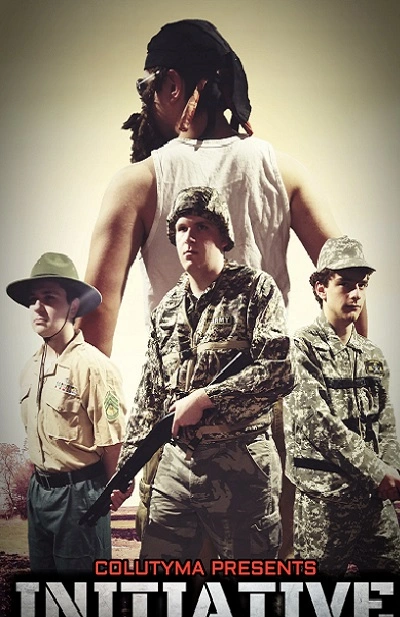
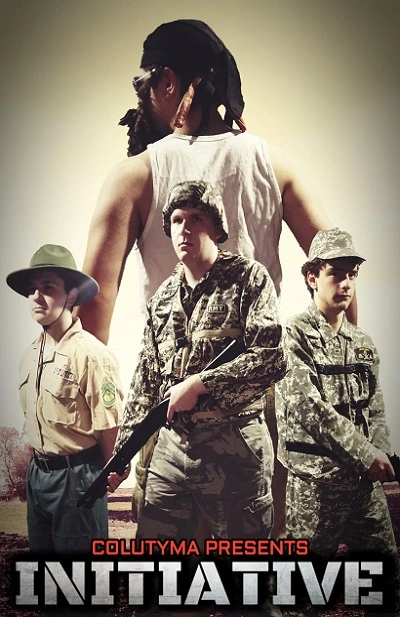
added small images to the movie posters and implamented a hamburger menu and some CSS

diff --git a/colutyma/styles/base.css b/colutyma/styles/base.css
@@ -2,23 +2,165 @@
 @import url('https://fonts.googleapis.com/css2?family=Audiowide&family=Host+Grotesk:ital,wght@0,300..800;1,300..800&display=swap');
 
 :root {
-    --primary-color: #143d8f;
+    --primary-color: #0b1e44;
     --secondary-color: #000f1b;
     --accent-color1: #e0f2e9;
     --accent-color2: #fa834c;
     --accent-color3: #823038;
-    --border: solid 2px var(--accent-color3);
+    --border-radius: 4px;
+    --border: outset 4px var(--primary-color);
+    --animation: borderMovement 5s linear infinite;
+    --header-margins: 100px 0px 60px 0px;
     --main-font: "Host Grotesk", Courier, monospace;
     --secondary-font: "Audiowide", "Host Grotesk", Courier;
 }
 
-h1, h2, h3 {
+body {
+    background-color: var(--secondary-color);
+    font-family: var(--main-font);
+    color: var(--accent-color1);
+}
+
+main {
+    text-align: center;
+}
+
+h1, h2, h3, h4 {
+    font-weight: 400;
     font-family: var(--secondary-font);
 }
 
-body {
-    font-family: var(--main-font);
+h1 {
+    margin: var(--header-margins);
 }
+
+h2 {
+    margin: var(--header-margins);
+}
+
+@keyframes borderMovement {
+    0% {
+        box-shadow: 0px 0px 0px 2px var(--accent-color2), 0px 0px 0px 4px var(--accent-color1);
+    }
+    50% {
+        box-shadow: 0px 0px 0px 2px var(--accent-color1), 0px 0px 0px 4px var(--primary-color);
+    }
+    100% {
+        box-shadow: 0px 0px 0px 2px var(--accent-color2), 0px 0px 0px 4px var(--accent-color1);
+    }
+}
+
+/* Header */
+
+.main-header {
+    background-color: var(--primary-color);
+    display: grid;
+    grid-template-columns: 1fr 1fr;
+    grid-template-rows: 1fr 0.2fr;
+}
+
+#col-logo {
+    width: 100%;
+    grid-column: 1/3;
+}
+
+.search-bar {
+    grid-row: 2;
+    grid-column: 2;
+    padding: 20px;
+}
+
+/* Menu */
+
+#menu {
+	font-size: 2rem;
+	border: 0;
+	background: var(--primary-color);
+ 	position: absolute;
+	left: 0rem;
+    margin-top: 39.5%;
+}
+
+#menu::before {
+    color: #000000;
+    content: "☰";
+}
+
+#menu.open::before {
+	content: "✖";
+    color: #000000;
+}
+
+.navigation {
+    grid-row: 3;
+    grid-column: 1/3;
+	display: flex;
+	flex-direction: row;
+    font-size: 14px;
+}
+
+.navigation.open {
+    animation: var(--animation);
+}
+
+.navigation a {
+	display: none;
+    width: 100%;
+	padding: 1rem 0rem;
+	text-align: center;
+	text-decoration: none;
+    background: var(--accent-color1);
+    color: var(--accent-color3);
+    font-family: var(--secondary-font);
+}
+
+.navigation a:hover {
+	background: var(--accent-color3);
+    color: var(--accent-color1);
+    font-weight: 800;
+}
+
+.open a {
+	display: block;
+}
+
+/* index.html */
+
+.page-description {
+    margin: 0% 5%;
+}
+
+.col-info {
+    background-color: var(--primary-color);
+    padding: 5%;
+    border-radius: var(--border-radius);
+    border: var(--border);
+}
+
+/* .col-info a {
+    
+} */
+
+#donate-link {
+    display: inline-block;
+    text-decoration: none;
+    background-color: var(--accent-color1);
+    color: var(--accent-color3);
+    font-family: var(--secondary-font);
+    padding: 10px;
+    margin: 20px;
+    border-radius: var(--border-radius);
+    animation: var(--animation);
+}
+
+#donate-link:hover {
+    background: var(--accent-color3);
+    color: var(--accent-color1);
+    font-weight: 800;
+}
+
+
+/* movie-list.html */
 
 .synopsis-button {
     background: none;
@@ -43,6 +185,8 @@ body {
 .open p {
 	display: block;
 }
+
+/* donations.html */
 
 #donate-submit {
     display: none;

diff --git a/colutyma/index.html b/colutyma/index.html
@@ -25,21 +25,24 @@
     <main>
       <section class="page-description">
         <h1>COLUTYMA PRODUCTIONS</h1>
-        <p>
-          COLUTYMA Productions was formed by Tyler Gohnert, Colby Schramel, Mathew Gohnert, and Luke Gohnert. 
-          Their goal was to express their love of cinema through COLUTYMA Productions.
-          The Gohnert brothers began filming when they were children in 2006. The first movie they filmed was 
-          called Fright, which was inspired by the classic 1984 comedy horror film, Gremlins. Since then, they've 
-          built a community of movie enthusiasts and actors that enjoy being a part of their projects, which culminated 
-          in the formation of COLUTYMA Productions in 2017. COLUTYMA Productions has never profited from their work. 
-          They only create movies to give opportunity to aspiring creators, and to make something to share with their 
-          friends, family, and to foster a community with those who have similar passions for cinema, and the films 
-          they create.
-        </p>
-        <p>
-          You can contribute to their growth and passion for filmaking by donating today.
-        </p>
-        <a href="donations.html">Donate Today!</a>
+        <div class="col-info">
+          <p>
+            Colutyma Productions was formed by Tyler Gohnert, Colby Schramel, Mathew Gohnert, and Luke Gohnert. 
+            Their goal was to express their love of cinema through Colutyma Productions. <br>
+            The Gohnert brothers began filming when they were children in 2006. The first movie they filmed was 
+            called Fright, which was inspired by the classic 1984 comedy horror film, Gremlins. Since then, they've 
+            built a community of movie enthusiasts and actors that enjoy being a part of their projects, which culminated 
+            in the formation of Colutyma Productions in 2017. <br> 
+            Colutyma Productions has never profited from their work. 
+            They only create movies to give opportunity to aspiring creators, and to make something to share with their 
+            friends, family, and to foster a community with those who have similar passions for cinema, and the films 
+            they create.
+          </p>
+          <p>
+            You can contribute to their growth and passion for filmaking by donating.
+          </p>
+          <a id="donate-link" href="donations.html">DONATE TODAY!</a>
+        </div>
       </section>
       <section>
         <h2>FEATURED FILMS</h2>
@@ -54,5 +57,6 @@
     <script src="scripts/headerfooter.js" type="module"></script>
     <script src="scripts/randomFilms.js" type="module"></script>
     <script src="scripts/randomReviews.js" type="module"></script>
+    <!-- <script src="scripts/menu.js" type="module"></script> -->
   </body>
 </html>

diff --git a/colutyma/data/partials/header.html b/colutyma/data/partials/header.html
@@ -1,10 +1,10 @@
-<img src="data/images/colutyma_productions_logo.webp">
-<nav>
-  <a href="index.html">Home</a>
-  <a href="movie-list.html">Movie List</a>
-  <a href="actors.html">Actors</a>
-  <a href="#">Upcoming Projects</a>
-  <a href="donations.html">Donate</a>
+<img id="col-logo" src="data/images/colutyma_productions_logo.webp" alt="Colutyma Productions logo">
+<button id="menu" type="button"></button>
+<nav class="navigation">
+  <a href="index.html">HOME</a>
+  <a href="movie-list.html">MOVIES</a>
+  <a href="actors.html">ACTORS</a>
+  <a href="donations.html">DONATE</a>
 </nav>
 <div class="search-bar">
   <form name="searchForm" id="searchForm" action="#" method="get">

diff --git a/colutyma/scripts/headerfooter.js b/colutyma/scripts/headerfooter.js
@@ -1,3 +1,5 @@
+import { loadMenuEvent } from "./menu.js"
+
 async function renderWithTemplate(template, parentElement, data, callback, position = "afterbegin", clear = true) {
     if (clear) {
   
@@ -25,7 +27,8 @@ function loadHeaderFooter() {
     const footerTemplate = loadTemplate("data/partials/footer.html");
     const parentHeader = document.querySelector(".main-header");
     const parentFooter = document.querySelector(".main-footer");
-    renderWithTemplate(headerTemplate, parentHeader);
+
+    renderWithTemplate(headerTemplate, parentHeader, null, loadMenuEvent); 
     renderWithTemplate(footerTemplate, parentFooter);
 }
 

diff --git a/colutyma/scripts/randomFilms.js b/colutyma/scripts/randomFilms.js
@@ -7,7 +7,10 @@ function movieTemplate(movies) {
         let template = `
         <section>
           <a href="film-info.html?title=${movie.title}">
-            <img src="${movie.poster}" alt="image of ${movie.title} poster">
+            <picture>
+              <source srcset="${movie.poster_small}" media="(max-width: 600px)">
+              <img src="${movie.poster}" alt="image of ${movie.title} poster">
+            </picture>
             <h3>${movie.title}<h3>
           </a>
         </section>

diff --git a/colutyma/scripts/menu.js b/colutyma/scripts/menu.js
@@ -1,0 +1,9 @@
+export function loadMenuEvent() {
+    const menuButton = document.querySelector("#menu");
+    const navigation = document.querySelector(".navigation");
+
+    menuButton.addEventListener("click", () => {
+        navigation.classList.toggle("open");
+        menuButton.classList.toggle("open");
+});
+}

diff --git a/styles/base.css b/styles/base.css
@@ -60,8 +60,6 @@ footer {
 	text-align: center;
 	text-decoration: none;
     color: var(--accent-color3)
-	
-
 }
 
 .navigation a:hover {
